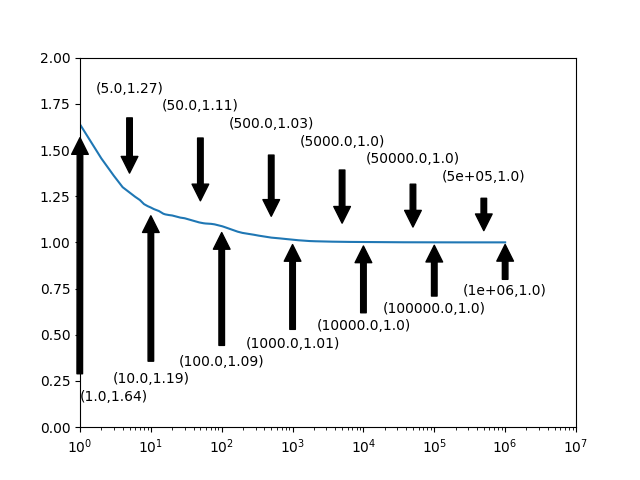
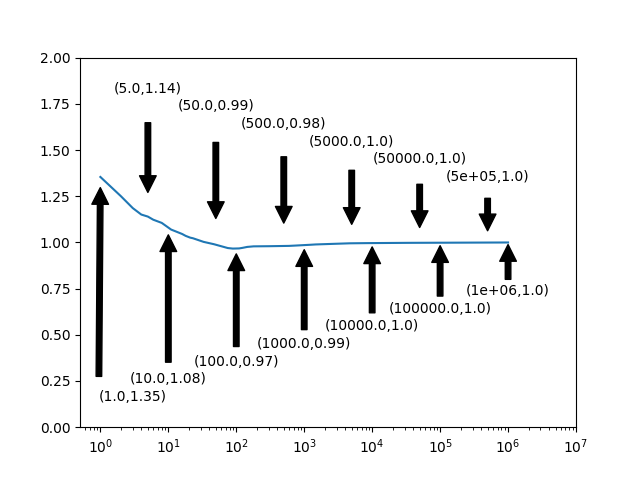
Fixing plot for bayesian estimation

diff --git a/Homework_3/data_generation.py b/Homework_3/data_generation.py
@@ -29,7 +29,7 @@ def cascading_arrow(data,ylower=-2,yhigher=2):
 
     # set bounds
     plt.ylim(ylower,yhigher)
-    plt.xlim(1,10**7)
+    plt.xlim(0,10**7)
 
     #iterate through 1,5,10,50,100,500...5*10^5,10**6
     index = 1
@@ -153,6 +153,7 @@ def figure_generation(data):
     plt.xlim(10**5,10**6)
     plt.ylim(.8,1.2)
     plt.savefig('SeparateMeans_Zoomed.png')
+
 def main():
     # number of elements
     nelem = 10**6
